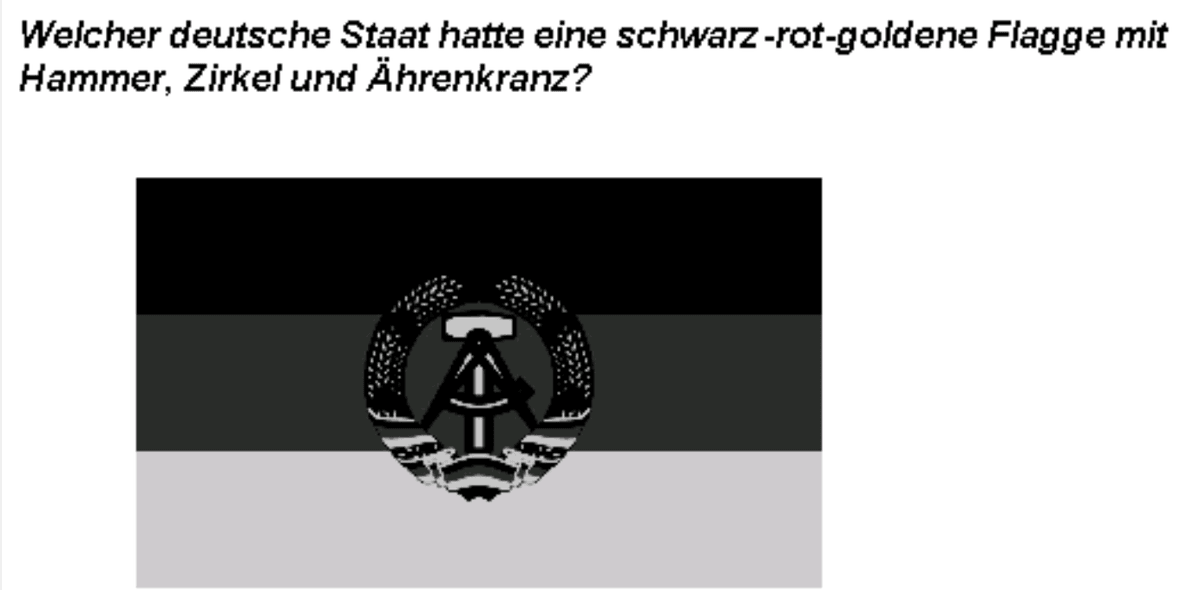
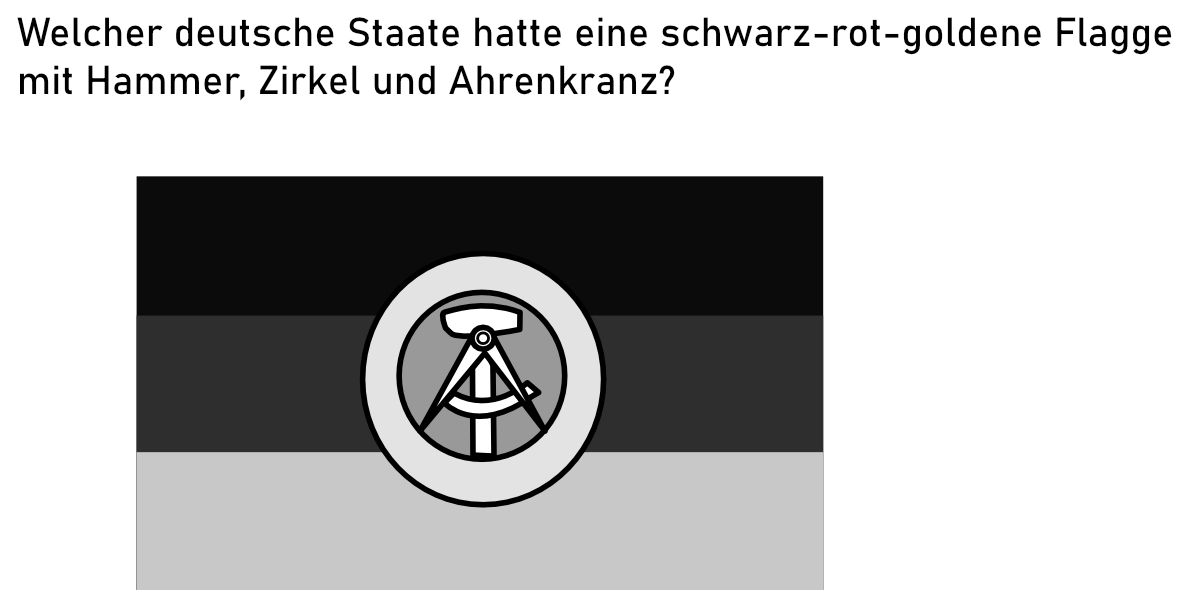
Replace B187 image with corrected redraw

diff --git a/README.md b/README.md
@@ -38,7 +38,7 @@ No web server is required; `data/questions.js`, `data/vocabulary.js` and `data/i
[1 lines of base64/hex data omitted]
   <https://www.bamf.de/SharedDocs/Anlagen/DE/Integration/Einbuergerung/gesamtfragenkatalog-lebenindeutschland.html?nn=284310>
 - **Answers, English translations, explanations and images**: [abdullahbutt/leben-in-deutschland-test](https://github.com/abdullahbutt/leben-in-deutschland-test), version 2026-10-28. **The German question and option wording is taken verbatim from the official BAMF PDF**; the dataset supplies the answer key, English translations, explanations and images. The translations and explanations are licensed under **CC BY-NC 4.0** (attribution, non-commercial use). `data/overrides.json` contains manual corrections for the few items where the dataset described a different paraphrase (e.g. B232, B247, HB02, SN07).
-- **B021, B055, B070, B130, B176 and B181 images**: `data/images/21.png`, `data/images/55.png`, `data/images/70.png`, `data/images/130.png`, `data/images/176.png` and `data/images/181.png` are redrawn replacements added for this project; the remaining images come from the dataset.
+- **B021, B055, B070, B130, B176, B181 and B187 images**: `data/images/21.png`, `data/images/55.png`, `data/images/70.png`, `data/images/130.png`, `data/images/176.png`, `data/images/181.png` and `data/images/187.png` are redrawn replacements added for this project; the remaining images come from the dataset.
 - This is an independent learning app, not an official BAMF product. Use is intended for personal, non-commercial exam preparation.
 
 ## Project layout
